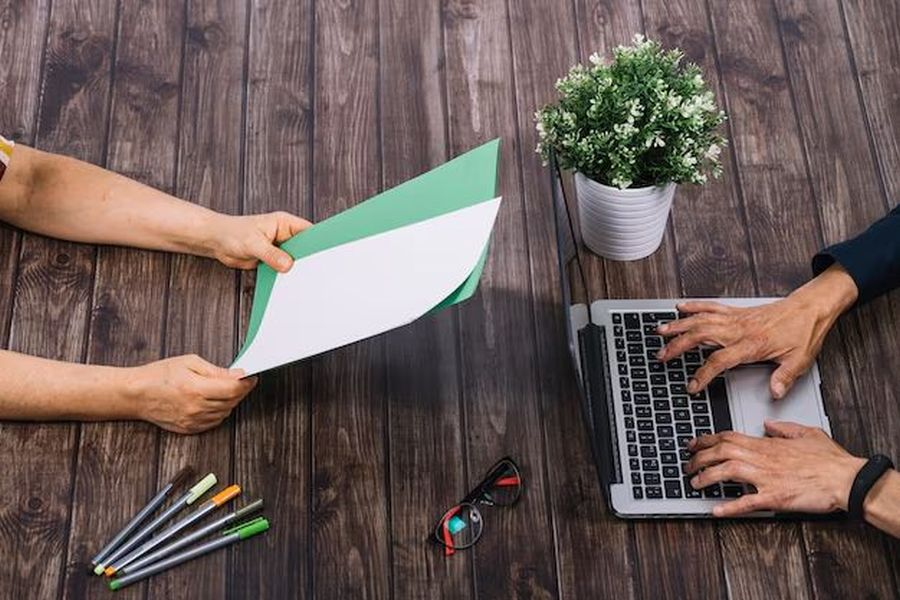
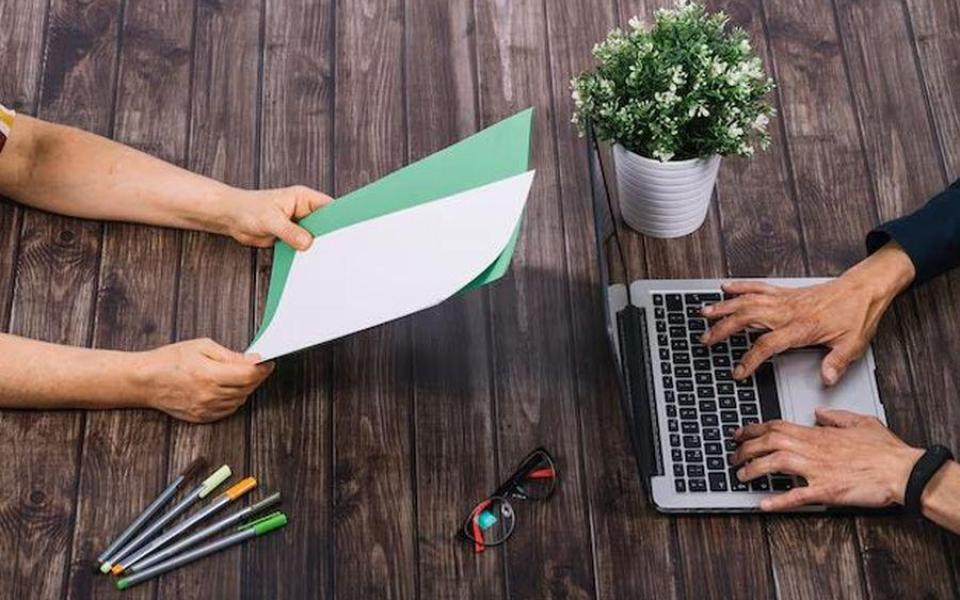
fixed image size and active header for week at a glance

diff --git a/content/info/program/week-at-a-glance.md b/content/info/program/week-at-a-glance.md
@@ -1,7 +1,7 @@
 ---
 title: VIS Preliminary Program
 layout: page
-active_nav: "Attend"
+active_nav: "Program"
 permalink: /year/2025/info/program/week-at-a-glance
 contact: program@ieeevis.org
 ---
